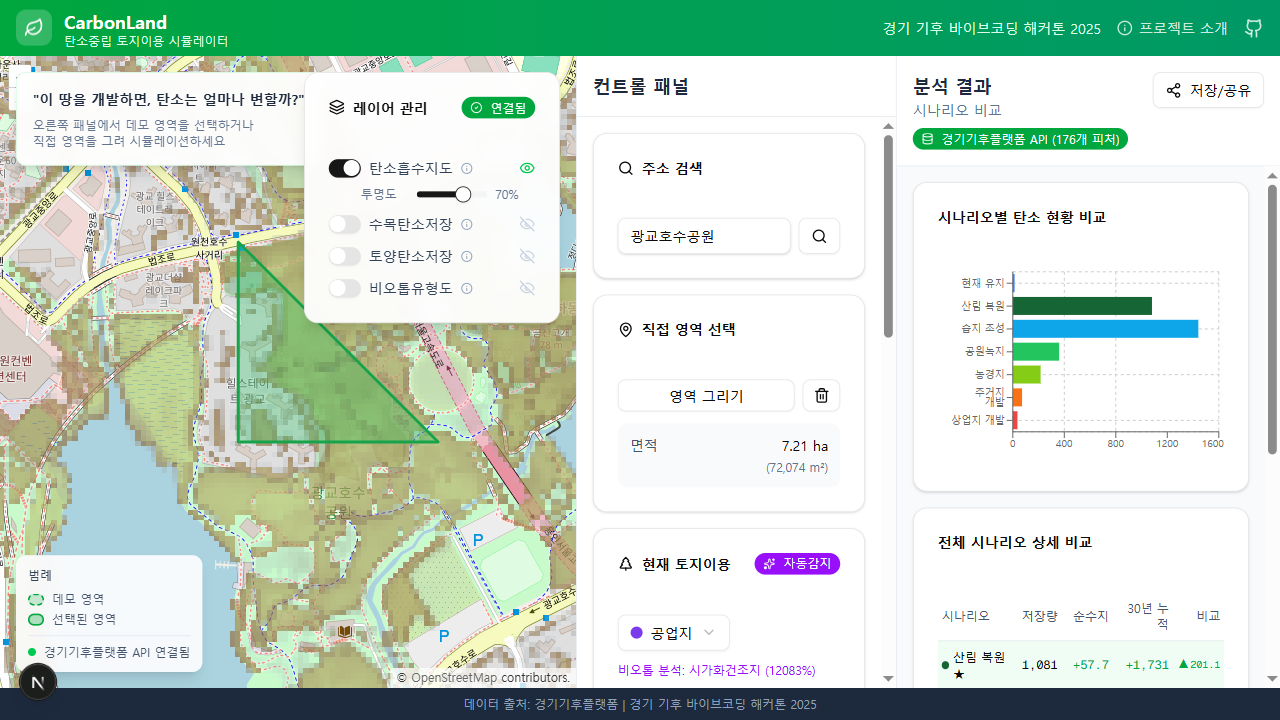
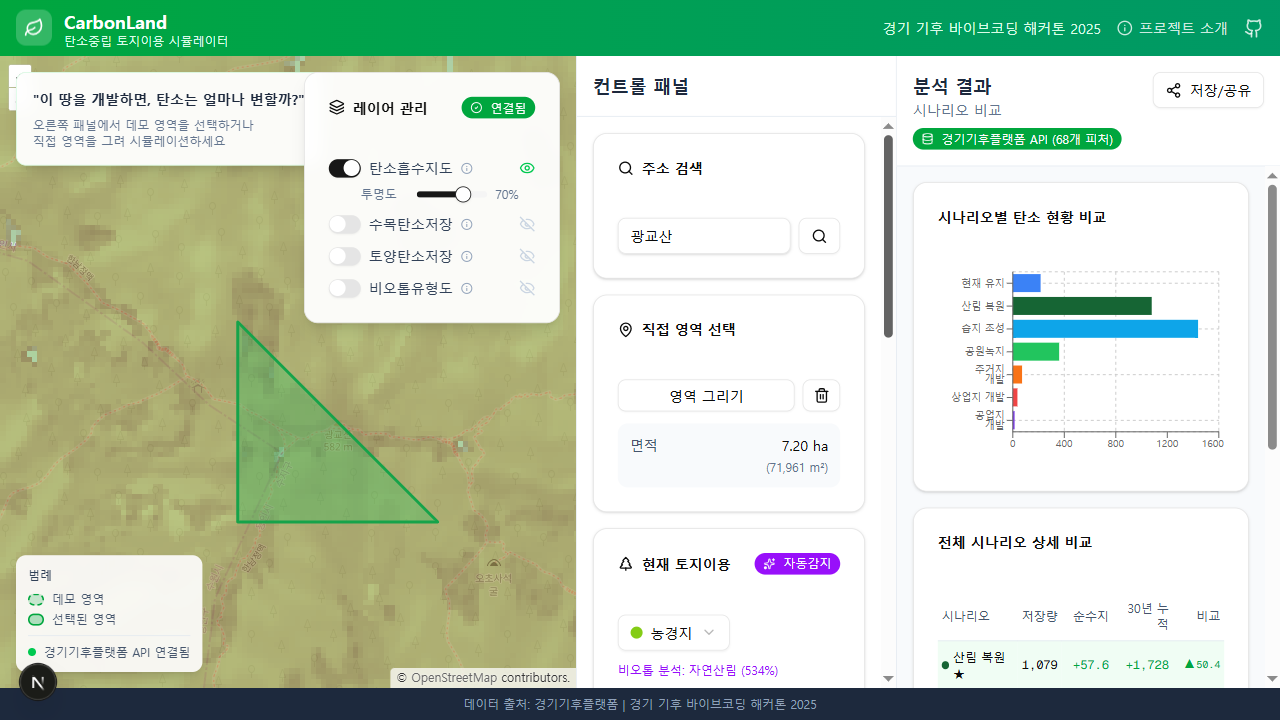
fix: 발표 시나리오 위치를 광교산(산림 지역)으로 변경
- 광교호수공원 → 광교산으로 검색 위치 변경
- 실제 산림으로 감지되는 지역으로 데모 시나리오 수정
- 스크린샷 업데이트

🤖 Generated with [Claude Code](https://claude.com/claude-code)

diff --git a/docs/presentation.html b/docs/presentation.html
@@ -469,16 +469,16 @@
             <img src="screenshots/02-search.png" alt="주소 검색" class="screenshot" onclick="openModal(this.src)">
             <div class="screen-desc">컨트롤 패널 - 주소 검색</div>
             <ul class="action-list">
-              <li>"광교호수공원" 입력</li>
+              <li>"광교산" 입력</li>
               <li>검색 버튼 클릭</li>
-              <li>"광교호수공원" 결과 선택</li>
+              <li>"광교산" 결과 선택</li>
             </ul>
           </td>
           <td class="script-cell" data-label="멘트">
             <div class="script-text">
               먼저 분석하고 싶은 지역을 찾습니다.<br><br>
-              <strong>"광교호수공원"</strong>을 검색해볼게요. 이 근처에 개발 예정 부지가 있다고 가정하겠습니다.<br><br>
-              <em>(결과 선택 후)</em> 광교호수공원 주변으로 지도가 이동됩니다.
+              <strong>"광교산"</strong>을 검색해볼게요. 이 산림 지역에 개발이 계획된다고 가정하겠습니다.<br><br>
+              <em>(결과 선택 후)</em> 광교산 주변으로 지도가 이동됩니다.
             </div>
           </td>
         </tr>
@@ -492,10 +492,10 @@
           </td>
           <td class="screen-cell" data-label="화면">
             <img src="screenshots/03-draw-area.png" alt="영역 그리기" class="screenshot" onclick="openModal(this.src)">
-            <div class="screen-desc">광교호수공원 북쪽 산림 지역 선택</div>
+            <div class="screen-desc">광교산 산림 지역 선택</div>
             <ul class="action-list">
               <li>"영역 그리기" 버튼 클릭</li>
-              <li>호수공원 <strong>북쪽(위쪽) 녹색 산림 지역</strong>에 사각형 그리기</li>
+              <li>지도 <strong>중앙의 녹색 산림 지역</strong>에 사각형 그리기</li>
               <li>더블클릭으로 완료 → "자동감지" 배지 확인</li>
             </ul>
           </td>
@@ -503,7 +503,7 @@
             <div class="script-text">
               이제 분석할 영역을 직접 그려보겠습니다.<br><br>
               '영역 그리기' 버튼을 클릭하고...<br>
-              <strong>호수공원 북쪽의 녹색 산림 지역</strong>을 사각형으로 선택합니다.<br>
+              <strong>광교산의 녹색 산림 지역</strong>을 사각형으로 선택합니다.<br>
               <em>(4번 클릭 후 더블클릭으로 완료)</em><br><br>
               보시면 <strong>'자동감지'</strong> 배지가 뜨죠?<br>
               경기기후플랫폼 WFS API가 이 영역을 분석해서<br>

diff --git a/capture-screenshots.spec.ts b/capture-screenshots.spec.ts
@@ -10,35 +10,35 @@ test('프레젠테이션 스크린샷 캡처', async ({ page }) => {
   await page.waitForTimeout(3000);
   await page.screenshot({ path: `${screenshotDir}/01-main.png` });
 
-  // 2. 주소 검색 - "광교호수공원" 검색
+  // 2. 주소 검색 - "광교산" 검색 (산림 지역)
   console.log('2. 주소 검색 캡처...');
   const searchInput = page.locator('input[placeholder*="주소"]').first();
-  await searchInput.fill('광교호수공원');
+  await searchInput.fill('광교산');
   await page.locator('button').filter({ has: page.locator('svg.lucide-search') }).first().click();
   await page.waitForTimeout(2000);
   await page.screenshot({ path: `${screenshotDir}/02-search.png` });
 
-  // 검색 결과 선택 - 광교호수공원 선택
-  const searchResult = page.locator('button').filter({ hasText: /광교|호수/ }).first();
+  // 검색 결과 선택 - 광교산 선택
+  const searchResult = page.locator('button').filter({ hasText: /광교/ }).first();
   if (await searchResult.isVisible({ timeout: 3000 }).catch(() => false)) {
     await searchResult.click();
     await page.waitForTimeout(2000);
   }
 
-  // 3. 영역 그리기 - 광교호수공원 북쪽 산림 지역 선택
+  // 3. 영역 그리기 - 광교산 산림 지역 선택
   console.log('3. 영역 그리기 캡처...');
   await page.locator('button:has-text("영역 그리기")').first().click();
   await page.waitForTimeout(500);
 
-  // 지도의 북쪽(위쪽) 산림 지역에 사각형 그리기
+  // 지도 중앙의 산림 지역에 사각형 그리기
   const mapCanvas = page.locator('.ol-viewport canvas, .ol-layer').first();
   const mapBox = await mapCanvas.boundingBox();
   if (mapBox) {
-    // 지도 중심에서 약간 위쪽(북쪽)의 산림 지역 선택
+    // 지도 중심 영역 (광교산 산림)
     const cx = mapBox.x + mapBox.width / 2;
-    const cy = mapBox.y + mapBox.height / 2 - 80; // 위쪽으로 이동 (산림 지역)
+    const cy = mapBox.y + mapBox.height / 2;
 
-    // 약 200m x 200m 정도의 사각형 영역 그리기
+    // 사각형 영역 그리기
     await page.mouse.click(cx - 50, cy - 50);
     await page.waitForTimeout(150);
     await page.mouse.click(cx + 50, cy - 50);

diff --git a/docs/07_presentation.md b/docs/07_presentation.md
@@ -46,17 +46,17 @@
 **화면**: 컨트롤 패널 - 주소 검색
 
 **액션**:
-1. 주소 검색창에 **"광교호수공원"** 입력
+1. 주소 검색창에 **"광교산"** 입력
 2. 검색 버튼 클릭
-3. **"광교호수공원"** 결과 선택 → 지도 이동
+3. **"광교산"** 결과 선택 → 지도 이동
 
 **멘트**:
 > "먼저 분석하고 싶은 지역을 찾습니다.
 >
-> **'광교호수공원'**을 검색해볼게요.
-> 이 근처에 개발 예정 부지가 있다고 가정하겠습니다.
+> **'광교산'**을 검색해볼게요.
+> 이 산림 지역에 개발이 계획된다고 가정하겠습니다.
 >
-> (결과 선택 후) 광교호수공원 주변으로 지도가 이동됩니다."
+> (결과 선택 후) 광교산 주변으로 지도가 이동됩니다."
 
 ---
 
@@ -65,14 +65,14 @@
 
 **액션**:
 1. "영역 그리기" 버튼 클릭
-2. **호수공원 북쪽(위쪽)의 녹색 산림 지역**에 사각형으로 그리기
+2. **지도 중앙의 녹색 산림 지역**에 사각형으로 그리기
 3. 4번 클릭 후 더블클릭으로 완료 → **"자동감지"** 배지 확인
 
 **멘트**:
 > "이제 분석할 영역을 직접 그려보겠습니다.
 >
 > '영역 그리기' 버튼을 클릭하고...
-> **호수공원 북쪽의 녹색 산림 지역**을 사각형으로 선택합니다.
+> **광교산의 녹색 산림 지역**을 사각형으로 선택합니다.
 >
 > (4번 클릭 후 더블클릭으로 완료)
 >
